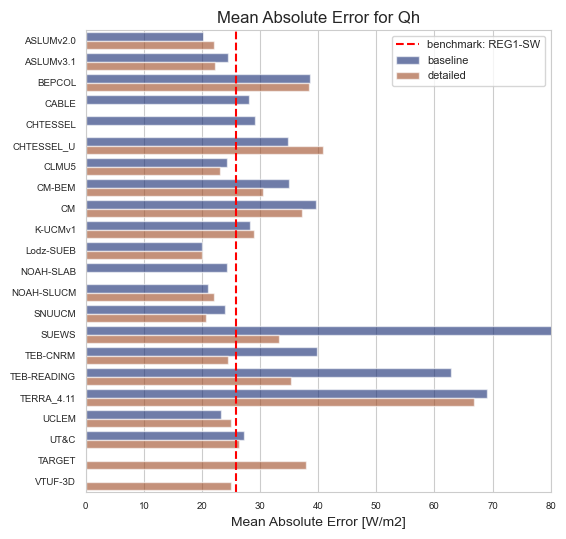
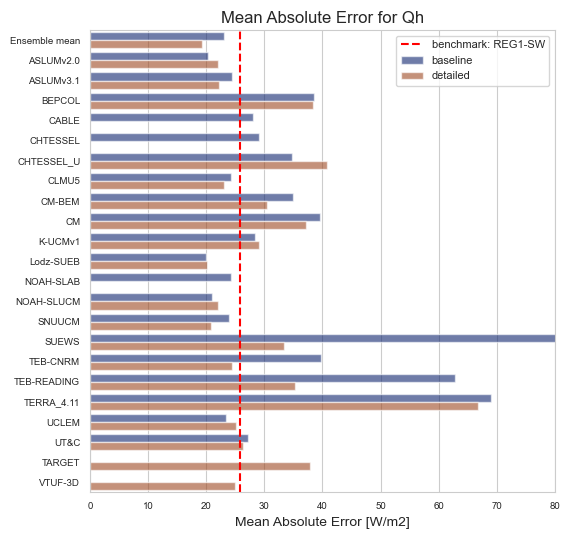
include ensemble in stat plots

diff --git a/AU-Preston/plots/index.md b/AU-Preston/plots/index.md
@@ -8,16 +8,14 @@
  - [Baseline results](baseline/index.md)
  - [Detailed results](detailed/index.md)
 
-### <a name="swnet"></a>SWnet: Net shortwave radiation (downward)
+### <a name="swnet"></a>SWnet: Net shortwave radiation (positive downward)
 [![SWnet](AU-Preston_SWnet_MAE.png)](AU-Preston_SWnet_MAE.png)
 
-### <a name="lwnet"></a>LWnet: Net longwave radiation (downward)
+### <a name="lwnet"></a>LWnet: Net longwave radiation (positive downward)
 [![LWnet](AU-Preston_LWnet_MAE.png)](AU-Preston_LWnet_MAE.png)
 
-### <a name="qle"></a>Qle: Latent heat flux (upward)
+### <a name="qle"></a>Qle: Latent heat flux (positive upward)
 [![Qle](AU-Preston_Qle_MAE.png)](AU-Preston_Qle_MAE.png)
 
-### <a name="qh"></a>Qh: Sensible heat flux (upward)
+### <a name="qh"></a>Qh: Sensible heat flux (positive upward)
 [![Qh](AU-Preston_Qh_MAE.png)](AU-Preston_Qh_MAE.png)
-
-    
